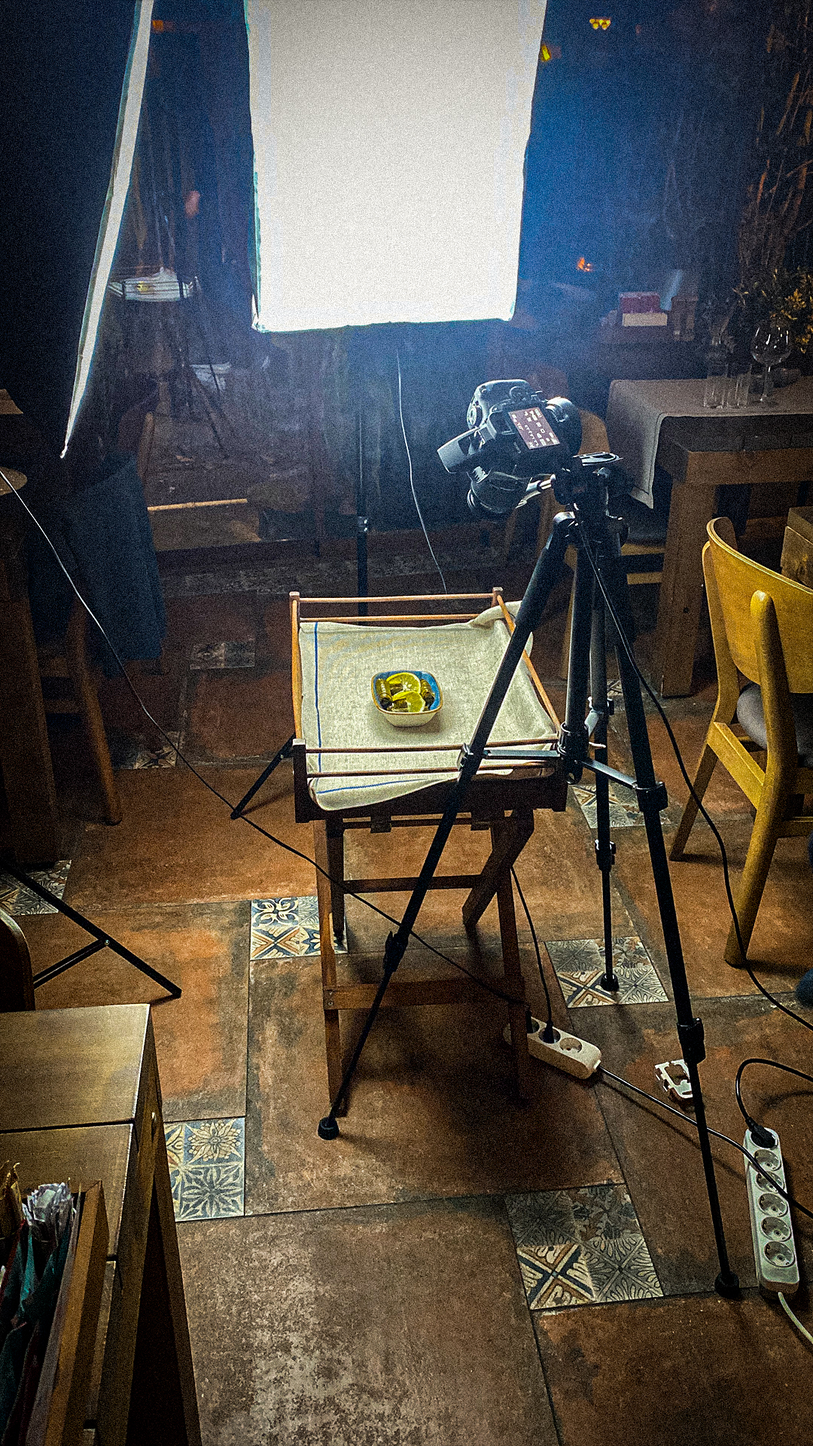
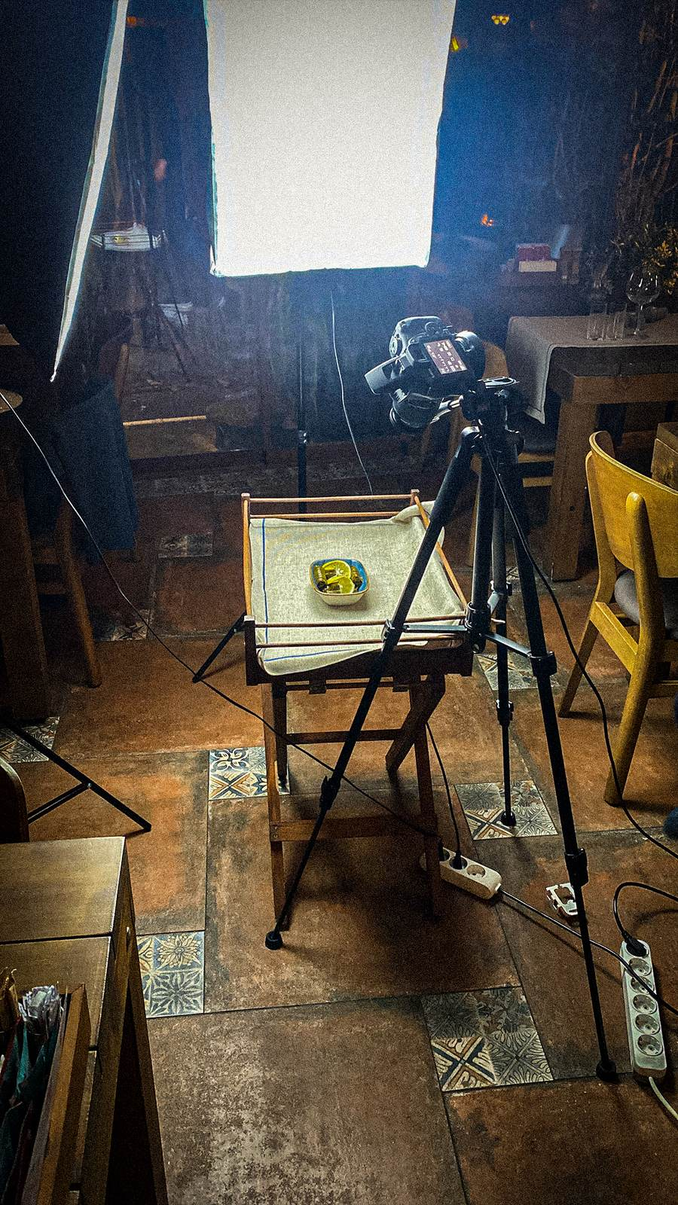
SEO denetimi düzeltmeleri: schema, hakkımızda, görsel optimizasyonu
Çok ajanlı SEO denetiminde bulunan Kritik/Yüksek öncelikli maddeler:

- BlogPosting şemasına zorunlu `image` alanı eklendi (coverImage'dan,
  yoksa site ikonuna düşer) — Rich Results Test'i geçmiyordu.
- Organization `logo` düz URL yerine ImageObject (url+width+height).
- "Founder" (Anıl Ay) artık Organization, blog yazarı ve hakkımızda
  sayfalarının hepsinde tam inline Person düğümü — önceden yalnızca
  `@id` referansıydı ve /hakkimizda dışındaki sayfalarda asılı kalıyordu
  (Google her sayfanın JSON-LD graph'ını ayrı değerlendirir).
- FAQPage şeması 10 sayfa şablonundan tamamen kaldırıldı — Google bu
  rich result'u 2026-05-07'de kaldırdığı için işlevsizdi; görünür FAQ
  içeriği (FaqList) aynen duruyor.
- /hakkimizda + /en/about genişletildi: "Kimlerle çalışıyoruz" bölümü
  eklendi (diş hekimleri, doktorlar, e-ticaret, restoranlar vb.) ve
  çalışmalar sayfasına link — kurucu bilgisine dokunulmadı, sayfa
  şirket odaklı kalıyor.
- Tike ve Büşra Kayan çalışma fotoğrafları yeniden sıkıştırıldı
  (2.3MB→294KB, 2.2MB→169KB, görsel kalite kaybı yok) — ikisi de
  LCP adayı, ağırlıkları mobil/4G'de gereksiz yüktü.

Claude-Session: https://claude.ai/code/session_01SvENg6oSTvnEevDakN6LQA

diff --git a/src/lib/seo.ts b/src/lib/seo.ts
@@ -1,6 +1,5 @@
 import type { Metadata } from "next";
 import { SITE } from "./site-config";
-import type { Faq } from "@content/types";
 import type { BlogPostMeta, Service } from "@content/types";
 
 const BASE = SITE.url;
@@ -99,6 +98,27 @@ export function buildMetadata(input: BuildMetadataInput): Metadata {
 
 type JsonLd = Record<string, unknown>;
 
+/**
+ * Kurucu Person düğümü — tam/inline döner, yalnızca `@id` referansı DEĞİL.
+ * Google her sayfanın JSON-LD graph'ını AYRI değerlendirir; bir sayfada
+ * yalnızca `{ "@id": ".../#founder" }` verilip Person düğümü başka bir
+ * sayfada (ör. /hakkimizda) tanımlıysa, o referans o sayfanın dışında asılı
+ * kalır. Bu yüzden founder'ın göründüğü her yerde (Organization, blog
+ * yazarı, /hakkimizda) bu fonksiyon çağrılır — aynı `@id` ile tekrarlanan
+ * inline veri, Google için geçerli ve tutarlıdır.
+ */
+export function founderSchema(locale: "tr" | "en" = "tr"): JsonLd {
+  return {
+    "@context": "https://schema.org",
+    "@type": "Person",
+    "@id": `${BASE}/#founder`,
+    name: SITE.founder.name,
+    jobTitle: locale === "en" ? SITE.founder.roleEn : SITE.founder.role,
+    worksFor: { "@id": `${BASE}/#organization` },
+    sameAs: [SITE.founder.linkedin],
+  };
+}
+
 export function organizationSchema(locale: "tr" | "en" = "tr"): JsonLd {
   return {
     "@context": "https://schema.org",
@@ -108,7 +128,12 @@ export function organizationSchema(locale: "tr" | "en" = "tr"): JsonLd {
     alternateName: SITE.alternateName,
     legalName: SITE.legalName,
     url: BASE,
-    logo: `${BASE}/icon.png`,
+    logo: {
+      "@type": "ImageObject",
+      url: `${BASE}/icon.png`,
+      width: 512,
+      height: 512,
+    },
     description: locale === "en" ? SITE.descriptionEn : SITE.descriptionTr,
     inLanguage: locale === "en" ? "en" : "tr-TR",
     email: SITE.contact.email,
@@ -122,7 +147,7 @@ export function organizationSchema(locale: "tr" | "en" = "tr"): JsonLd {
       areaServed: SITE.areaServed,
       availableLanguage: ["Turkish", "English"],
     },
-    founder: { "@id": `${BASE}/#founder` },
+    founder: founderSchema(locale),
     sameAs: Object.values(SITE.social),
   };
 }
@@ -195,27 +220,16 @@ export function blogPostingSchema(
     headline: meta.title,
     description: meta.description,
     url,
+    image: meta.coverImage ? `${BASE}${meta.coverImage.src}` : `${BASE}/icon.png`,
     datePublished: meta.publishedAt,
     dateModified: meta.updatedAt ?? meta.publishedAt,
     author:
       meta.author === SITE.founder.name
-        ? { "@id": `${BASE}/#founder` }
+        ? founderSchema(locale)
         : { "@type": "Person", name: meta.author },
     publisher: { "@id": `${BASE}/#organization` },
     inLanguage: locale === "en" ? "en" : "tr-TR",
     mainEntityOfPage: url,
-  };
-}
-
-export function faqSchema(faqs: Faq[]): JsonLd {
-  return {
-    "@context": "https://schema.org",
-    "@type": "FAQPage",
-    mainEntity: faqs.map((f) => ({
-      "@type": "Question",
-      name: f.question,
-      acceptedAnswer: { "@type": "Answer", text: f.answer },
-    })),
   };
 }
 

diff --git a/src/app/(site)/hakkimizda/page.tsx b/src/app/(site)/hakkimizda/page.tsx
@@ -1,12 +1,12 @@
 import type { Metadata } from "next";
+import Link from "next/link";
 import { Container } from "@/components/ui/Container";
 import { Section, SectionHeading } from "@/components/ui/Section";
 import { Breadcrumbs } from "@/components/ui/Breadcrumbs";
 import { CtaBand } from "@/components/sections/CtaBand";
 import { JsonLd } from "@/components/JsonLd";
-import { buildMetadata, breadcrumbSchema } from "@/lib/seo";
+import { buildMetadata, breadcrumbSchema, founderSchema } from "@/lib/seo";
 import { routes, enRoutes } from "@/lib/routes";
-import { SITE } from "@/lib/site-config";
 
 export const metadata: Metadata = buildMetadata({
   title: "İstanbul Merkezli Yazılım Şirketi Hakkımızda",
@@ -16,16 +16,6 @@ export const metadata: Metadata = buildMetadata({
   alternatePath: enRoutes.about,
 });
 
-const personSchema = {
-  "@context": "https://schema.org",
-  "@type": "Person",
-  "@id": `${SITE.url}/#founder`,
-  name: SITE.founder.name,
-  jobTitle: SITE.founder.role,
-  worksFor: { "@id": `${SITE.url}/#organization` },
-  sameAs: [SITE.founder.linkedin],
-};
-
 export default function AboutPage() {
   const crumbs = [
     { name: "Ana sayfa", path: "/" },
@@ -34,7 +24,7 @@ export default function AboutPage() {
 
   return (
     <>
-      <JsonLd data={[breadcrumbSchema(crumbs), personSchema]} />
+      <JsonLd data={[breadcrumbSchema(crumbs), founderSchema()]} />
       <Container className="pt-10">
         <Breadcrumbs items={crumbs} />
       </Container>
@@ -72,6 +62,24 @@ export default function AboutPage() {
               yönetimi — ve her biri bağımsız olarak sunulur.
             </li>
           </ul>
+
+          <h2>Kimlerle çalışıyoruz</h2>
+          <p>
+            Groopy, sektör sınırlaması olmadan çalışır. Diş hekimleri ve diş
+            klinikleri, doktorlar ve sağlık kuruluşları, e-ticaret siteleri,
+            restoranlar ve daha pek çok sektörden işletmeyle web sitesi,
+            SEO&nbsp;+&nbsp;GEO, Google Reklam Yönetimi ve sosyal medya
+            yönetimi projeleri yürütülür. Her sektörün arama davranışı ve
+            müşteri yolculuğu farklıdır; bu yüzden hazır bir şablon değil, o
+            işletmenin gerçek ihtiyacına göre kurulmuş bir çözüm sunulur.
+          </p>
+          <p>
+            Birlikte çalıştığımız gerçek projelerden bazılarını{" "}
+            <Link href={routes.work} className="underline underline-offset-2">
+              çalışmalar
+            </Link>{" "}
+            sayfasında görebilirsiniz.
+          </p>
         </div>
       </Section>
 

diff --git a/src/app/en/about/page.tsx b/src/app/en/about/page.tsx
@@ -1,12 +1,12 @@
 import type { Metadata } from "next";
+import Link from "next/link";
 import { Container } from "@/components/ui/Container";
 import { Section, SectionHeading } from "@/components/ui/Section";
 import { Breadcrumbs } from "@/components/ui/Breadcrumbs";
 import { CtaBand } from "@/components/sections/CtaBand";
 import { JsonLd } from "@/components/JsonLd";
-import { buildMetadata, breadcrumbSchema } from "@/lib/seo";
+import { buildMetadata, breadcrumbSchema, founderSchema } from "@/lib/seo";
 import { enRoutes, routes } from "@/lib/routes";
-import { SITE } from "@/lib/site-config";
 
 export const metadata: Metadata = buildMetadata({
   title: "About: Istanbul-Based Software Company",
@@ -17,16 +17,6 @@ export const metadata: Metadata = buildMetadata({
   alternatePath: routes.about,
 });
 
-const personSchema = {
-  "@context": "https://schema.org",
-  "@type": "Person",
-  "@id": `${SITE.url}/#founder`,
-  name: SITE.founder.name,
-  jobTitle: SITE.founder.roleEn,
-  worksFor: { "@id": `${SITE.url}/#organization` },
-  sameAs: [SITE.founder.linkedin],
-};
-
 export default function EnAboutPage() {
   const crumbs = [
     { name: "Home", path: enRoutes.home },
@@ -35,7 +25,7 @@ export default function EnAboutPage() {
 
   return (
     <>
-      <JsonLd data={[breadcrumbSchema(crumbs), personSchema]} />
+      <JsonLd data={[breadcrumbSchema(crumbs), founderSchema("en")]} />
       <Container className="pt-10">
         <Breadcrumbs ariaLabel="Breadcrumb" items={crumbs} />
       </Container>
@@ -74,6 +64,25 @@ export default function EnAboutPage() {
               management — each offered independently.
             </li>
           </ul>
+
+          <h2>Who we work with</h2>
+          <p>
+            Groopy isn&apos;t limited to one industry. We run website,
+            SEO&nbsp;+&nbsp;GEO, Google Ads Management, and social media
+            management projects for dentists and dental clinics, doctors and
+            healthcare providers, e-commerce sites, restaurants, and
+            businesses across many other sectors. Search behavior and the
+            customer journey differ by industry, so each project is built
+            around that business&apos;s actual needs rather than a
+            one-size-fits-all template.
+          </p>
+          <p>
+            You can see some of our real projects on the{" "}
+            <Link href={enRoutes.work} className="underline underline-offset-2">
+              case studies
+            </Link>{" "}
+            page.
+          </p>
         </div>
       </Section>
 

diff --git a/src/app/en/page.tsx b/src/app/en/page.tsx
@@ -8,8 +8,7 @@ import { ProcessSteps } from "@/components/sections/ProcessSteps";
 import { CtaBand } from "@/components/sections/CtaBand";
 import { Section, SectionHeading } from "@/components/ui/Section";
 import { FaqList } from "@/components/ui/FaqList";
-import { JsonLd } from "@/components/JsonLd";
-import { buildMetadata, faqSchema } from "@/lib/seo";
+import { buildMetadata } from "@/lib/seo";
 import { enRoutes, routes } from "@/lib/routes";
 import type { Faq } from "@content/types";
 import { primaryServices } from "@content/en/services";
@@ -105,7 +104,6 @@ export default function EnHomePage() {
       </Section>
 
       <Section surface>
-        <JsonLd data={faqSchema(homeFaq)} />
         <div className="max-w-3xl">
           <FaqList items={homeFaq} title="Frequently asked questions" />
         </div>

diff --git a/src/app/(site)/page.tsx b/src/app/(site)/page.tsx
@@ -8,8 +8,7 @@ import { ProcessSteps } from "@/components/sections/ProcessSteps";
 import { CtaBand } from "@/components/sections/CtaBand";
 import { Section, SectionHeading } from "@/components/ui/Section";
 import { FaqList } from "@/components/ui/FaqList";
-import { JsonLd } from "@/components/JsonLd";
-import { buildMetadata, faqSchema } from "@/lib/seo";
+import { buildMetadata } from "@/lib/seo";
 import { enRoutes } from "@/lib/routes";
 import type { Faq } from "@content/types";
 import { primaryServices } from "@content/services";
@@ -106,7 +105,6 @@ export default function HomePage() {
       </Section>
 
       <Section surface>
-        <JsonLd data={faqSchema(homeFaq)} />
         <div className="max-w-3xl">
           <FaqList items={homeFaq} title="Sık sorulan sorular" />
         </div>

diff --git a/src/app/en/services/page.tsx b/src/app/en/services/page.tsx
@@ -7,7 +7,7 @@ import { ServiceCards } from "@/components/sections/ServiceCards";
 import { CtaBand } from "@/components/sections/CtaBand";
 import { FaqList } from "@/components/ui/FaqList";
 import { JsonLd } from "@/components/JsonLd";
-import { buildMetadata, breadcrumbSchema, faqSchema } from "@/lib/seo";
+import { buildMetadata, breadcrumbSchema } from "@/lib/seo";
 import { enRoutes, routes } from "@/lib/routes";
 import { primaryServices } from "@content/en/services";
 import type { Faq } from "@content/types";
@@ -53,7 +53,6 @@ export default function EnServicesPage() {
             { name: "Home", path: enRoutes.home },
             { name: "Services", path: enRoutes.services },
           ]),
-          faqSchema(faq),
         ]}
       />
       <Container className="pt-10">

diff --git a/src/app/(site)/hizmetler/page.tsx b/src/app/(site)/hizmetler/page.tsx
@@ -7,7 +7,7 @@ import { ServiceCards } from "@/components/sections/ServiceCards";
 import { CtaBand } from "@/components/sections/CtaBand";
 import { FaqList } from "@/components/ui/FaqList";
 import { JsonLd } from "@/components/JsonLd";
-import { buildMetadata, breadcrumbSchema, faqSchema } from "@/lib/seo";
+import { buildMetadata, breadcrumbSchema } from "@/lib/seo";
 import { routes, enRoutes } from "@/lib/routes";
 import { primaryServices } from "@content/services";
 import type { Faq } from "@content/types";
@@ -52,7 +52,6 @@ export default function ServicesPage() {
             { name: "Ana sayfa", path: "/" },
             { name: "Hizmetler", path: routes.services },
           ]),
-          faqSchema(faq),
         ]}
       />
       <Container className="pt-10">

diff --git a/src/app/(site)/hizmetler/[slug]/page.tsx b/src/app/(site)/hizmetler/[slug]/page.tsx
@@ -16,7 +16,6 @@ import {
   buildMetadata,
   serviceSchema,
   breadcrumbSchema,
-  faqSchema,
 } from "@/lib/seo";
 import { routes, enRoutes } from "@/lib/routes";
 import { SERVICE_SLUG_TR_TO_EN } from "@/lib/i18n-routes";
@@ -71,11 +70,7 @@ export default async function ServiceDetailPage({
   return (
     <>
       <JsonLd
-        data={[
-          serviceSchema(service),
-          breadcrumbSchema(crumbs),
-          ...(service.faq && service.faq.length > 0 ? [faqSchema(service.faq)] : []),
-        ]}
+        data={[serviceSchema(service), breadcrumbSchema(crumbs)]}
       />
 
       <section className="service-hero relative isolate overflow-hidden border-b border-[var(--color-border)]">

diff --git a/src/app/(site)/blog/[slug]/page.tsx b/src/app/(site)/blog/[slug]/page.tsx
@@ -13,7 +13,6 @@ import {
   buildMetadata,
   blogPostingSchema,
   breadcrumbSchema,
-  faqSchema,
 } from "@/lib/seo";
 import { routes, enRoutes } from "@/lib/routes";
 import { POST_SLUG_TR_TO_EN } from "@/lib/i18n-routes";
@@ -76,11 +75,7 @@ export default async function BlogPostPage({
   return (
     <>
       <JsonLd
-        data={[
-          blogPostingSchema(meta),
-          breadcrumbSchema(crumbs),
-          ...(meta.faq && meta.faq.length > 0 ? [faqSchema(meta.faq)] : []),
-        ]}
+        data={[blogPostingSchema(meta), breadcrumbSchema(crumbs)]}
       />
 
       <article>

diff --git a/src/app/en/services/[slug]/page.tsx b/src/app/en/services/[slug]/page.tsx
@@ -16,7 +16,6 @@ import {
   buildMetadata,
   serviceSchema,
   breadcrumbSchema,
-  faqSchema,
 } from "@/lib/seo";
 import { enRoutes, routes } from "@/lib/routes";
 import { SERVICE_SLUG_EN_TO_TR } from "@/lib/i18n-routes";
@@ -75,7 +74,6 @@ export default async function EnServiceDetailPage({
         data={[
           serviceSchema(service, { path: enRoutes.service(service.slug), locale: "en" }),
           breadcrumbSchema(crumbs),
-          ...(service.faq && service.faq.length > 0 ? [faqSchema(service.faq)] : []),
         ]}
       />
 

diff --git a/src/app/en/blog/[slug]/page.tsx b/src/app/en/blog/[slug]/page.tsx
@@ -13,7 +13,6 @@ import {
   buildMetadata,
   blogPostingSchema,
   breadcrumbSchema,
-  faqSchema,
 } from "@/lib/seo";
 import { enRoutes, routes } from "@/lib/routes";
 import { POST_SLUG_EN_TO_TR } from "@/lib/i18n-routes";
@@ -80,7 +79,6 @@ export default async function EnBlogPostPage({
         data={[
           blogPostingSchema(meta, { path: enRoutes.post(meta.slug), locale: "en" }),
           breadcrumbSchema(crumbs),
-          ...(meta.faq && meta.faq.length > 0 ? [faqSchema(meta.faq)] : []),
         ]}
       />
 

diff --git a/src/app/(site)/seo-analiz-araci/page.tsx b/src/app/(site)/seo-analiz-araci/page.tsx
@@ -10,7 +10,6 @@ import { JsonLd } from "@/components/JsonLd";
 import {
   buildMetadata,
   breadcrumbSchema,
-  faqSchema,
   softwareApplicationSchema,
 } from "@/lib/seo";
 import { routes, enRoutes } from "@/lib/routes";
@@ -117,7 +116,6 @@ export default function SeoToolPage() {
       <JsonLd
         data={[
           breadcrumbSchema(crumbs),
-          faqSchema(faq),
           softwareApplicationSchema({
             name: "Groopy Ücretsiz SEO Analiz Aracı",
             description:
